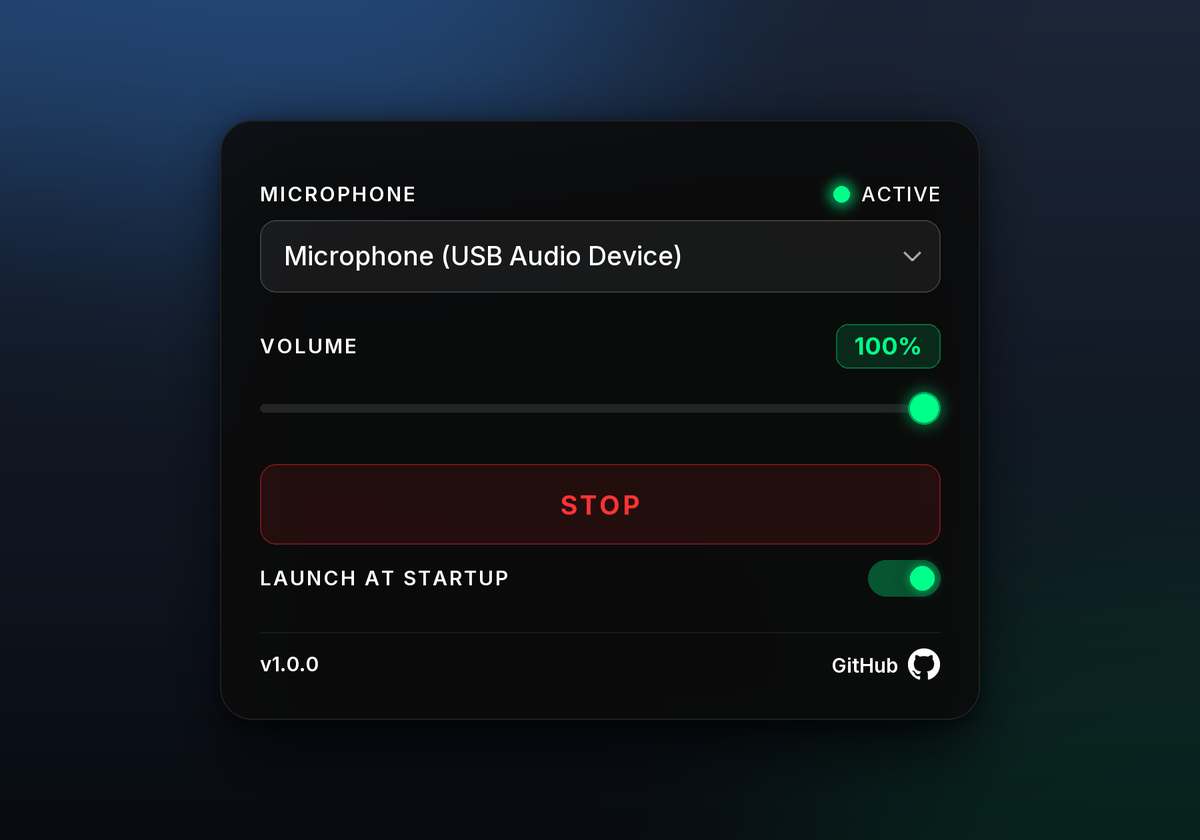
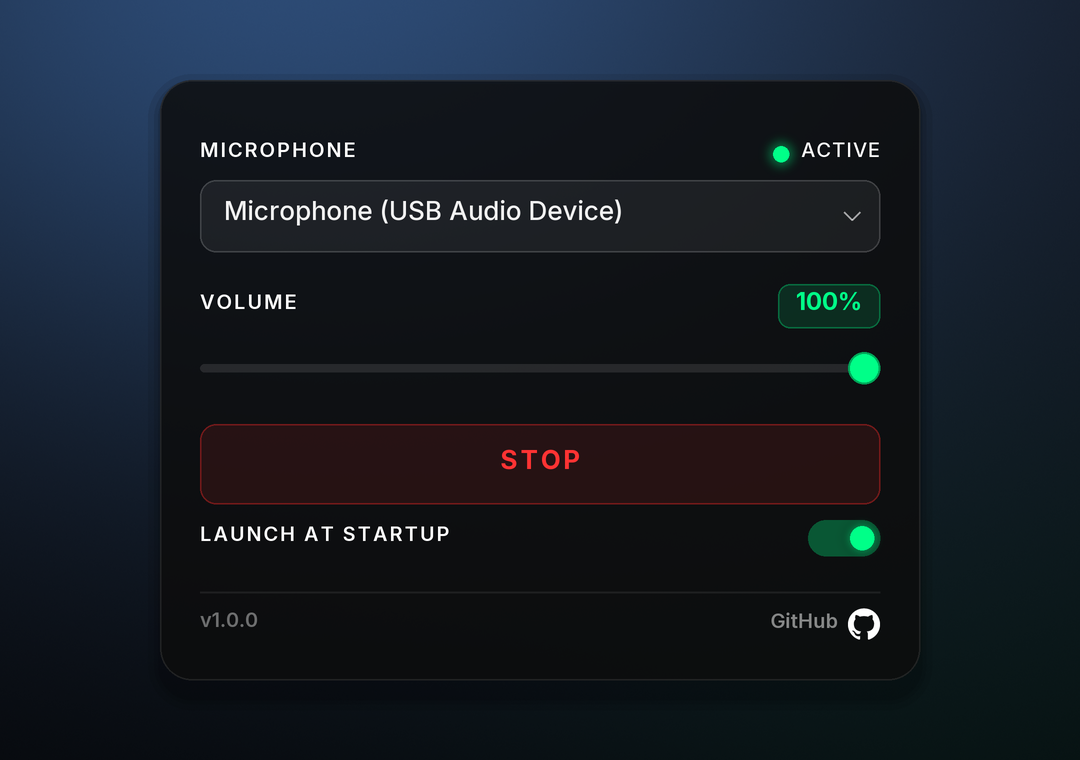
docs: smooth preview gradients, crisper rendering; tone down README styling
preview.png:
- rebuilt the backdrop as an analytic gradient (vertical ramp + two radial
  highlights + vignette) with dithering instead of blurring a solid bitmap,
  which was the source of the smeared/banded look
- dropped the large-blur passes around the window shadow and glows
- draw all shapes at 4x and downsample to 1080x760 so corners, separators and
  text edges are antialiased instead of stair-stepped
- composite translucent fills through layers again (they were rendering as
  opaque white blocks), fix text baselines, keep the official GitHub mark

README.md / docs/README.ru.md:
- remove the emoji column from the feature table and the icon bullets
- trim the badge row from 7 to 5, replace the flag emoji table with a locale list
- turn the [!TIP]/callout for autostart into plain prose, simplify the diagram

diff --git a/docs/README.ru.md b/docs/README.ru.md
@@ -31,8 +31,6 @@
   <a href="https://github.com/BORGERone/miclocker/releases/latest"><img src="https://img.shields.io/badge/platform-Windows%2010%2F11%20x64-0078D6?style=flat-square&logo=windows11&logoColor=white" alt="Платформа"></a>
   <a href="#сборка-из-исходников"><img src="https://img.shields.io/badge/built%20with-Tauri%20v2-24C8DB?style=flat-square&logo=tauri&logoColor=white" alt="Tauri v2"></a>
   <a href="https://github.com/BORGERone/miclocker/stargazers"><img src="https://img.shields.io/github/stars/BORGERone/miclocker?style=flat-square&logo=github" alt="Звёзды"></a>
-  <a href="https://github.com/BORGERone/miclocker/network/members"><img src="https://img.shields.io/github/forks/BORGERone/miclocker?style=flat-square&logo=github" alt="Форки"></a>
-  <a href="https://github.com/BORGERone/miclocker/issues"><img src="https://img.shields.io/github/issues/BORGERone/miclocker?style=flat-square&logo=github" alt="Issues"></a>
   <a href="https://github.com/BORGERone/miclocker/blob/main/LICENSE"><img src="https://img.shields.io/badge/license-MIT-00c46a?style=flat-square" alt="Лицензия MIT"></a>
 </p>
 
@@ -50,24 +48,23 @@ MicLocker живёт в области уведомлений. Выберите 
 
 Голосовые чаты, игры и программы для конференций любят «помогать» с уровнем микрофона: автоматическая регулировка усиления, нормализация или сброс на 100% после выхода устройства из сна. MicLocker хранит одну истину — **уровень, который вы задали**, — и проверяет его каждую секунду.
 
-- 🔒 **Блокировка уровня** — любое отклонение исправляется на следующем такте (≤ 1 секунды).
-- 🎮 **Больше никакого «вырванного» голоса в чате** — никто не получит микрофон на 100% после того, как игра сбросила ваш ползунок.
-- 🔌 **Переживает переподключение** — если устройство пропало и вернулось, уровень будет выставлен снова.
-- 🪶 **Невесомый** — нативный бинарник на Rust с интерфейсом WebView2: без Electron, без фоновых служб, без драйверов и без прав администратора.
+- **Блокировка уровня** — любое отклонение исправляется на следующем такте (≤ 1 секунды).
+- **Переживает переподключение** — если устройство пропало и вернулось, уровень будет выставлен снова.
+- **Нативный и компактный** — бинарник на Rust с интерфейсом WebView2: без Electron, без фоновых служб, без аудиодрайверов и без прав администратора.
 
 ## Возможности
 
 | Возможность | Описание |
 |---|---|
-| 🎙 **Выбор устройства** | Показывает все активные устройства захвата звука в системе |
-| 🎚 **Фиксация уровня (0–100%)** | Проверка раз в секунду через `IAudioEndpointVolume` |
-| 🖥 **Стеклянный интерфейс без рамки** | Окно 380 × 300, скрывается при потере фокуса |
-| 🧲 **Работа в трее** | Левый клик по значку возвращает окно, правый — открывает меню |
-| 🚀 **Режим автозапуска** | Запоминает устройство и уровень и включает удержание сразу при старте MicLocker |
-| 🌍 **12 языков интерфейса** | Определяются из системной локали |
-| 💾 **Настройки сохраняются** | Устройство, уровень и автозапуск переживают перезапуск |
-| 📦 **Портативно или с установкой** | Один `.exe`, а также установщики MSI и NSIS |
-| 🕵 **Полностью офлайн** | Ни телеметрии, ни аккаунтов, ни сетевых запросов (кроме кнопки GitHub) |
+| **Выбор устройства** | Показывает все активные устройства захвата звука в системе |
+| **Фиксация уровня (0–100%)** | Проверка раз в секунду через `IAudioEndpointVolume` |
+| **Интерфейс без рамки** | Окно 380 × 300, скрывается при потере фокуса |
+| **Работа в трее** | Левый клик по значку возвращает окно, правый — открывает меню |
+| **Режим автозапуска** | Запоминает устройство и уровень и включает удержание сразу при старте MicLocker |
+| **12 языков интерфейса** | Определяются из системной локали |
+| **Настройки сохраняются** | Устройство, уровень и автозапуск переживают перезапуск |
+| **Портативно или с установкой** | Один `.exe`, а также установщики MSI и NSIS |
+| **Офлайн** | Ни телеметрии, ни аккаунтов, ни сетевых запросов (кроме кнопки GitHub) |
 
 ## Скачать
 
@@ -104,8 +101,7 @@ MicLocker живёт в области уведомлений. Выберите 
 
 **Поведение окна:** окно без рамки и прозрачное, закрывается, как только теряет фокус (настройки и уровень продолжают действовать), и в любой момент открывается заново из трея. Правый клик по значку → *Закрыть* — полный выход из приложения.
 
-> [!TIP]
-> Чтобы MicLocker запускался вместе с Windows, включите **Запускать при старте** и добавьте ярлык `miclocker.exe` в папку автозагрузки (нажмите <kbd>Win</kbd>+<kbd>R</kbd> и введите `shell:startup`). Приложение запустится в трее с уже включённой блокировкой.
+**Автозапуск вместе с Windows:** включите **Запускать при старте** и добавьте ярлык `miclocker.exe` в папку автозагрузки (нажмите <kbd>Win</kbd>+<kbd>R</kbd> и введите `shell:startup`). Тогда приложение будет запускаться в трее с уже включённой блокировкой.
 
 ## Как это работает
 
@@ -119,7 +115,7 @@ MicLocker живёт в области уведомлений. Выберите 
    Windows Core Audio  (src-tauri/src/audio.rs)
                 │  IAudioEndpointVolume::SetMasterVolumeLevelScalar()
                 ▼
-        🎙  уровень входа  ──►  возвращается к заданному вами значению
+        уровень входа  ──►  возвращается к заданному вами значению
 ```
 
 - Устройства перечисляются через `IMMDeviceEnumerator::EnumAudioEndpoints(eCapture, …)`.
@@ -220,12 +216,7 @@ miclocker/
 
 ## Языки интерфейса
 
-В приложении 12 локалей, язык определяется по системному:
-
-<p align="center">
-  🇬🇧 English · 🇷🇺 Русский · 🇩🇪 Deutsch · 🇪🇸 Español · 🇫🇷 Français · 🇮🇹 Italiano<br/>
-  🇵🇱 Polski · 🇵🇹 Português · 🇯🇵 日本語 · 🇰🇷 한국어 · 🇨🇳 中文 · 🇮🇳 हिन्दी
-</p>
+В приложении 12 локалей, язык определяется по системному: `en`, `ru`, `de`, `es`, `fr`, `it`, `pl`, `pt`, `ja`, `ko`, `zh`, `hi`.
 
 **Добавить язык** — три шага:
 
@@ -252,5 +243,5 @@ Issues и pull request'ы приветствуются — сообщения о
 ---
 
 <p align="center">
-  <sub>Если MicLocker держит ваш микрофон в узде — ⭐ на репозитории поможет другим его найти.</sub>
+  <sub>Если MicLocker оказался полезен, звезда на репозитории поможет другим его найти.</sub>
 </p>

diff --git a/README.md b/README.md
@@ -31,8 +31,6 @@
   <a href="https://github.com/BORGERone/miclocker/releases/latest"><img src="https://img.shields.io/badge/platform-Windows%2010%2F11%20x64-0078D6?style=flat-square&logo=windows11&logoColor=white" alt="Platform"></a>
   <a href="#build-from-source"><img src="https://img.shields.io/badge/built%20with-Tauri%20v2-24C8DB?style=flat-square&logo=tauri&logoColor=white" alt="Tauri v2"></a>
   <a href="https://github.com/BORGERone/miclocker/stargazers"><img src="https://img.shields.io/github/stars/BORGERone/miclocker?style=flat-square&logo=github" alt="Stars"></a>
-  <a href="https://github.com/BORGERone/miclocker/network/members"><img src="https://img.shields.io/github/forks/BORGERone/miclocker?style=flat-square&logo=github" alt="Forks"></a>
-  <a href="https://github.com/BORGERone/miclocker/issues"><img src="https://img.shields.io/github/issues/BORGERone/miclocker?style=flat-square&logo=github" alt="Issues"></a>
   <a href="https://github.com/BORGERone/miclocker/blob/main/LICENSE"><img src="https://img.shields.io/badge/license-MIT-00c46a?style=flat-square" alt="MIT License"></a>
 </p>
 
@@ -50,24 +48,23 @@ MicLocker lives in the notification area. Pick an input device, choose a level, 
 
 Voice chats, games and conferencing apps love to "help" with your input level: auto-gain, normalization, or a full 100% reset after the device wakes up from sleep. MicLocker keeps a single truth — **the level you set** — and enforces it every second.
 
-- 🔒 **Lock the level** — any drift is corrected on the next tick (≤ 1 second).
-- 🎮 **No more blown-out voice chat** — nobody gets a 100% mic in their ears after a game update resets your slider.
-- 🔌 **Survives reconnects** — if the device disappears and comes back, the level is re-applied automatically.
-- 🪶 **Featherweight** — a native Rust binary with a WebView2 UI; no Electron, no background services, no drivers, no admin rights.
+- **Lock the level** — any drift is corrected on the next tick (≤ 1 second).
+- **Survives reconnects** — if the device disappears and comes back, the level is re-applied automatically.
+- **Native and small** — a Rust binary with a WebView2 UI: no Electron, no background services, no audio drivers, no admin rights.
 
 ## Features
 
 | Feature | Description |
 |---|---|
-| 🎙 **Device picker** | Lists every active capture endpoint on the system |
-| 🎚 **Level lock (0–100%)** | Re-applied once per second through `IAudioEndpointVolume` |
-| 🖥 **Frameless glass UI** | A 380 × 300 window that fades away as soon as it loses focus |
-| 🧲 **Tray resident** | Left-click the tray icon to bring the window back, right-click for the menu |
-| 🚀 **Launch-at-startup mode** | Remembers device + level and starts maintaining as soon as MicLocker starts |
-| 🌍 **12 UI languages** | Picked automatically from the system locale |
-| 💾 **Settings persisted** | Device, level and auto-start survive restarts |
-| 📦 **Portable or installed** | One `.exe`, plus MSI and NSIS installers |
-| 🕵 **Fully offline** | No telemetry, no accounts, no network calls (except the GitHub button) |
+| **Device picker** | Lists every active capture endpoint on the system |
+| **Level lock (0–100%)** | Re-applied once per second through `IAudioEndpointVolume` |
+| **Frameless glass UI** | A 380 × 300 window that hides itself as soon as it loses focus |
+| **Tray resident** | Left-click the tray icon to bring the window back, right-click for the menu |
+| **Launch-at-startup mode** | Remembers device + level and starts maintaining as soon as MicLocker starts |
+| **12 UI languages** | Picked automatically from the system locale |
+| **Settings persisted** | Device, level and auto-start survive restarts |
+| **Portable or installed** | One `.exe`, plus MSI and NSIS installers |
+| **Offline** | No telemetry, no accounts, no network calls (except the GitHub button) |
 
 ## Download
 
@@ -104,8 +101,7 @@ From that point on the level is re-applied every second. Press **Stop** to relea
 
 **Window behaviour:** the window is frameless and transparent, closes itself as soon as it loses focus (your settings stay applied) and can be reopened from the tray icon at any time. Right-click the tray icon → *Закрыть* (quit) to exit completely.
 
-> [!TIP]
-> To make MicLocker start with Windows, enable **Launch at startup** here, then add a shortcut to `miclocker.exe` into `shell:startup` (press <kbd>Win</kbd>+<kbd>R</kbd>, type `shell:startup`). The app will start in the tray with the lock already engaged.
+**Starting with Windows:** enable **Launch at startup** here, then add a shortcut to `miclocker.exe` into `shell:startup` (press <kbd>Win</kbd>+<kbd>R</kbd>, type `shell:startup`). The app will then start in the tray with the lock already engaged.
 
 ## How it works
 
@@ -119,7 +115,7 @@ From that point on the level is re-applied every second. Press **Stop** to relea
    Windows Core Audio  (src-tauri/src/audio.rs)
                 │  IAudioEndpointVolume::SetMasterVolumeLevelScalar()
                 ▼
-        🎙  input level  ──►  forced back to the value you chose
+         input level   ──►  forced back to the value you chose
 ```
 
 - Devices are enumerated with `IMMDeviceEnumerator::EnumAudioEndpoints(eCapture, …)`.
@@ -220,12 +216,7 @@ miclocker/
 
 ## Interface languages
 
-The UI ships with 12 locales and follows the system language:
-
-<p align="center">
-  🇬🇧 English · 🇷🇺 Русский · 🇩🇪 Deutsch · 🇪🇸 Español · 🇫🇷 Français · 🇮🇹 Italiano<br/>
-  🇵🇱 Polski · 🇵🇹 Português · 🇯🇵 日本語 · 🇰🇷 한국어 · 🇨🇳 中文 · 🇮🇳 हिन्दी
-</p>
+The UI ships with 12 locales and follows the system language: `en`, `ru`, `de`, `es`, `fr`, `it`, `pl`, `pt`, `ja`, `ko`, `zh`, `hi`.
 
 **Adding a language** is a three-step job:
 
@@ -252,5 +243,5 @@ Released under the [MIT License](https://github.com/BORGERone/miclocker/blob/mai
 ---
 
 <p align="center">
-  <sub>If MicLocker keeps your microphone in check, a ⭐ on the repository helps other people find it.</sub>
+  <sub>If MicLocker is useful to you, a star on the repository helps other people find it.</sub>
 </p>
